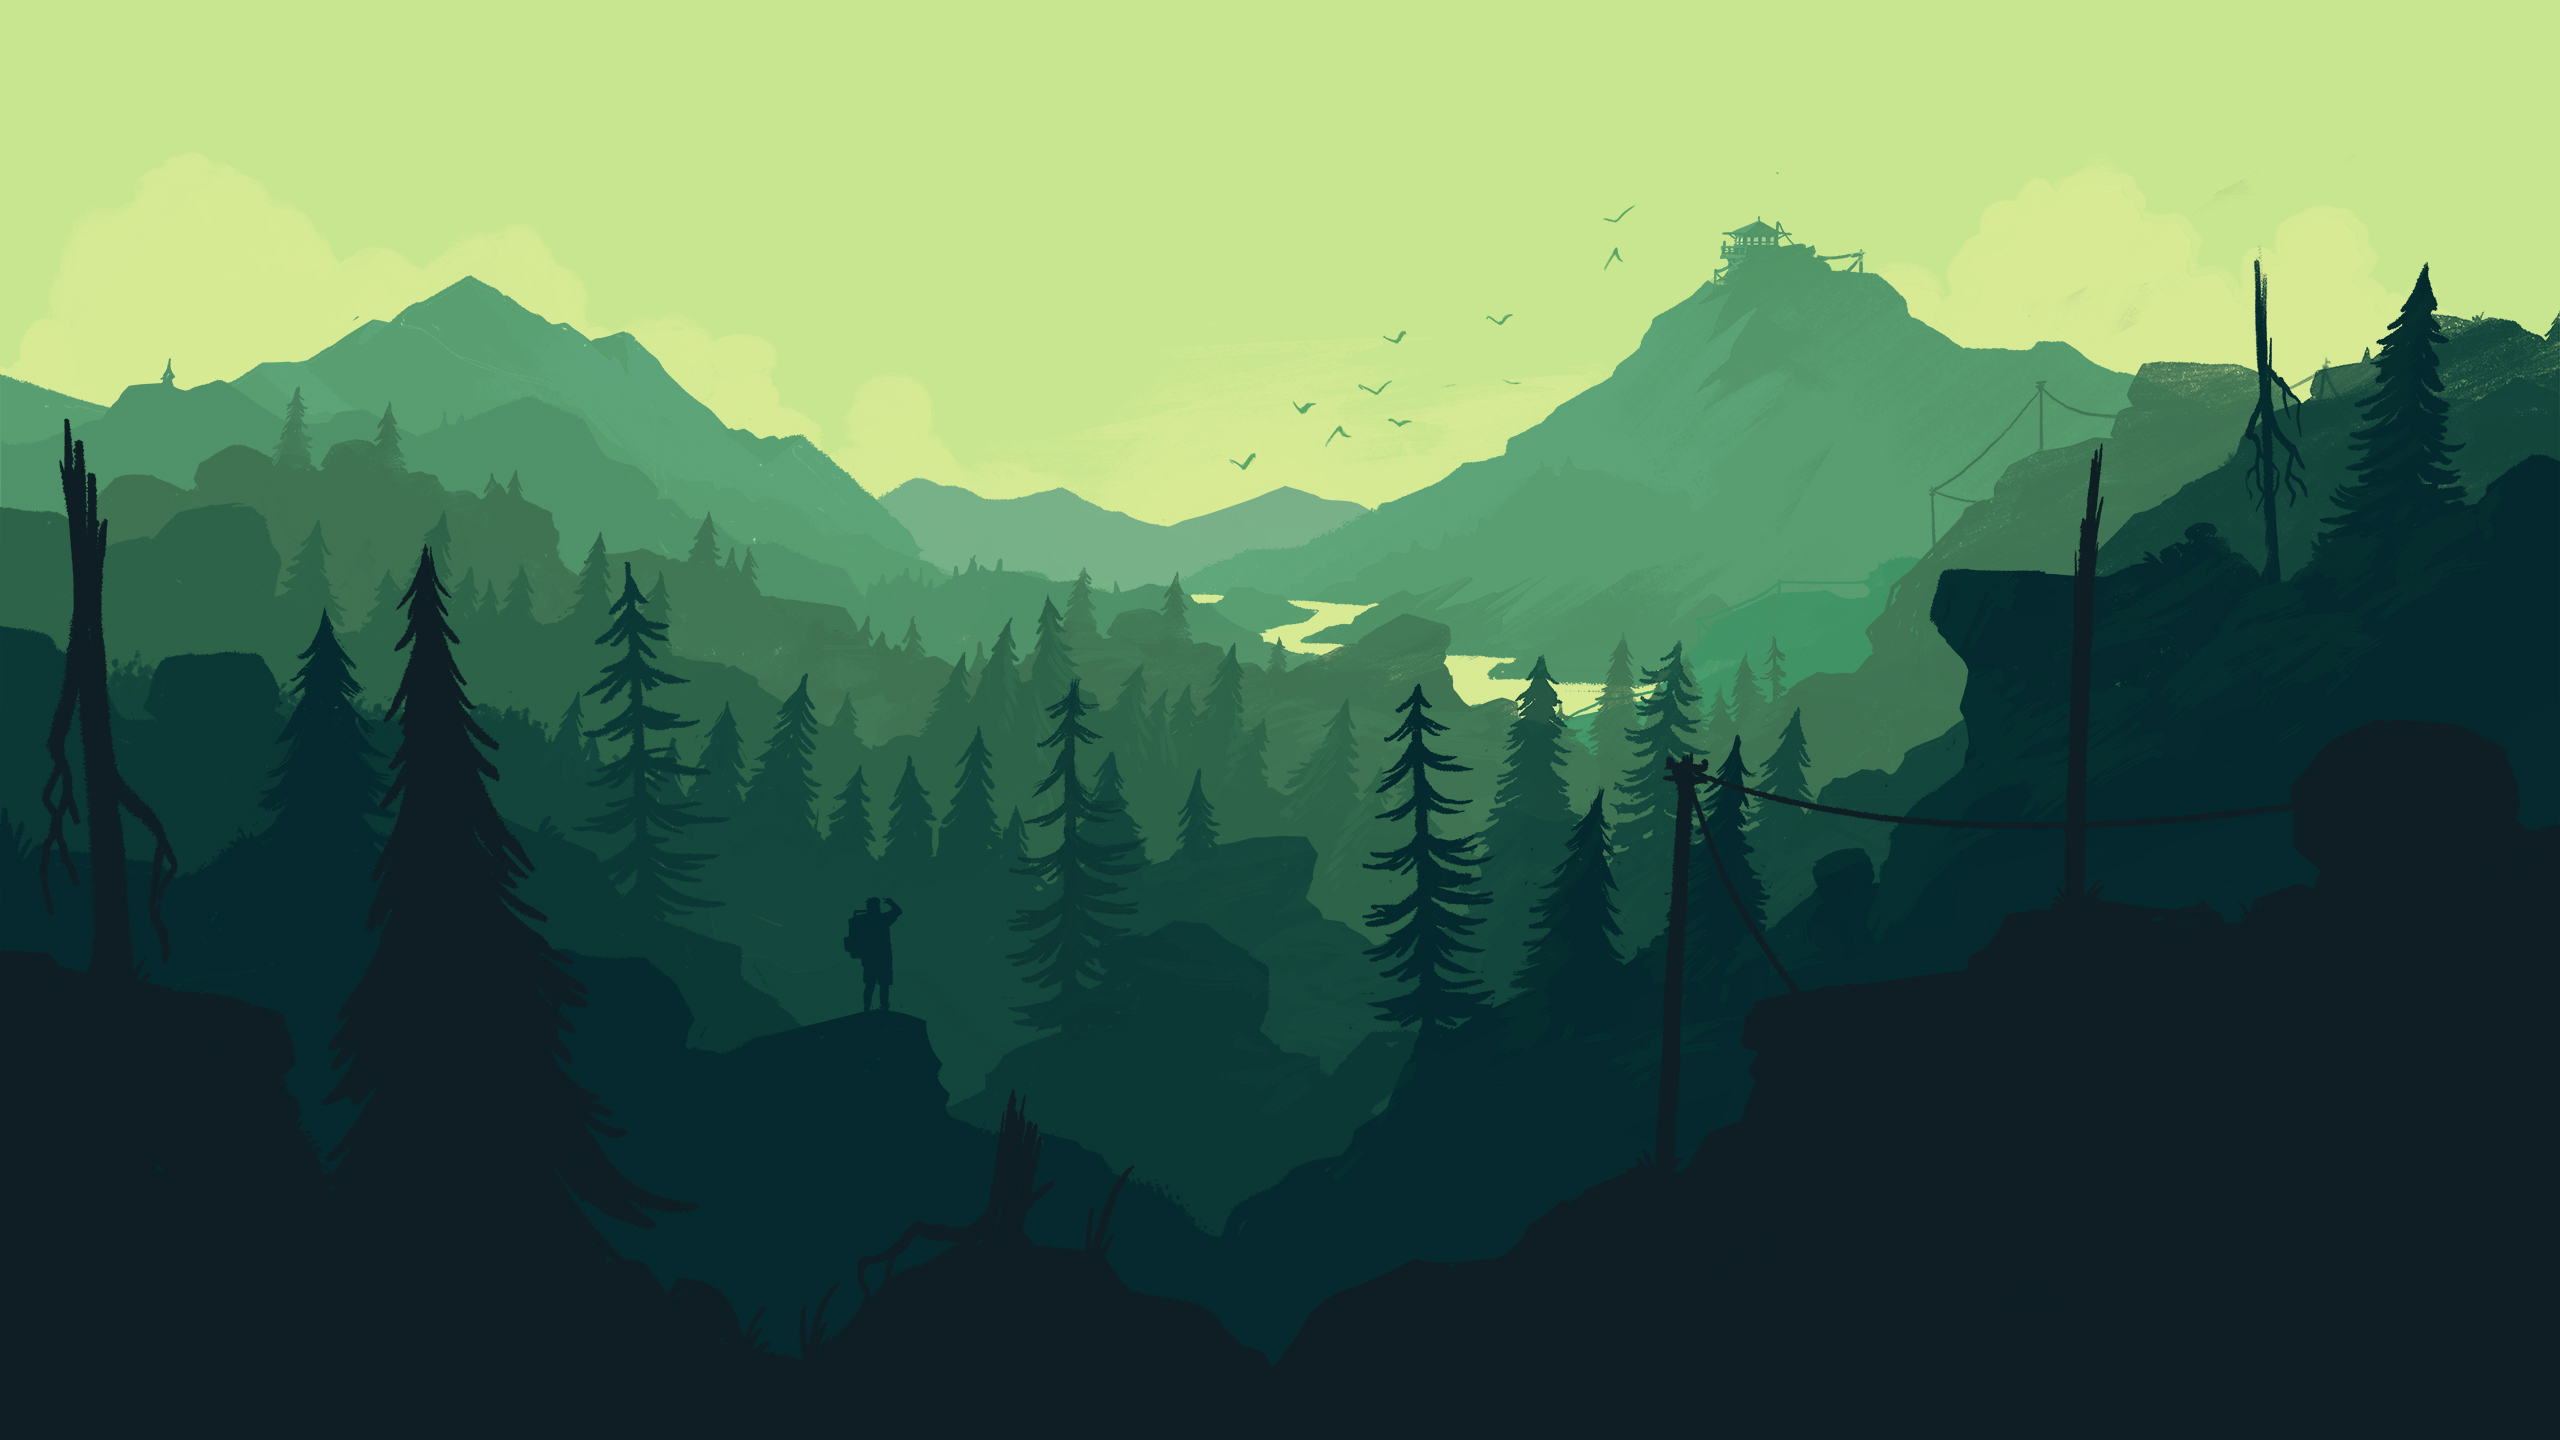
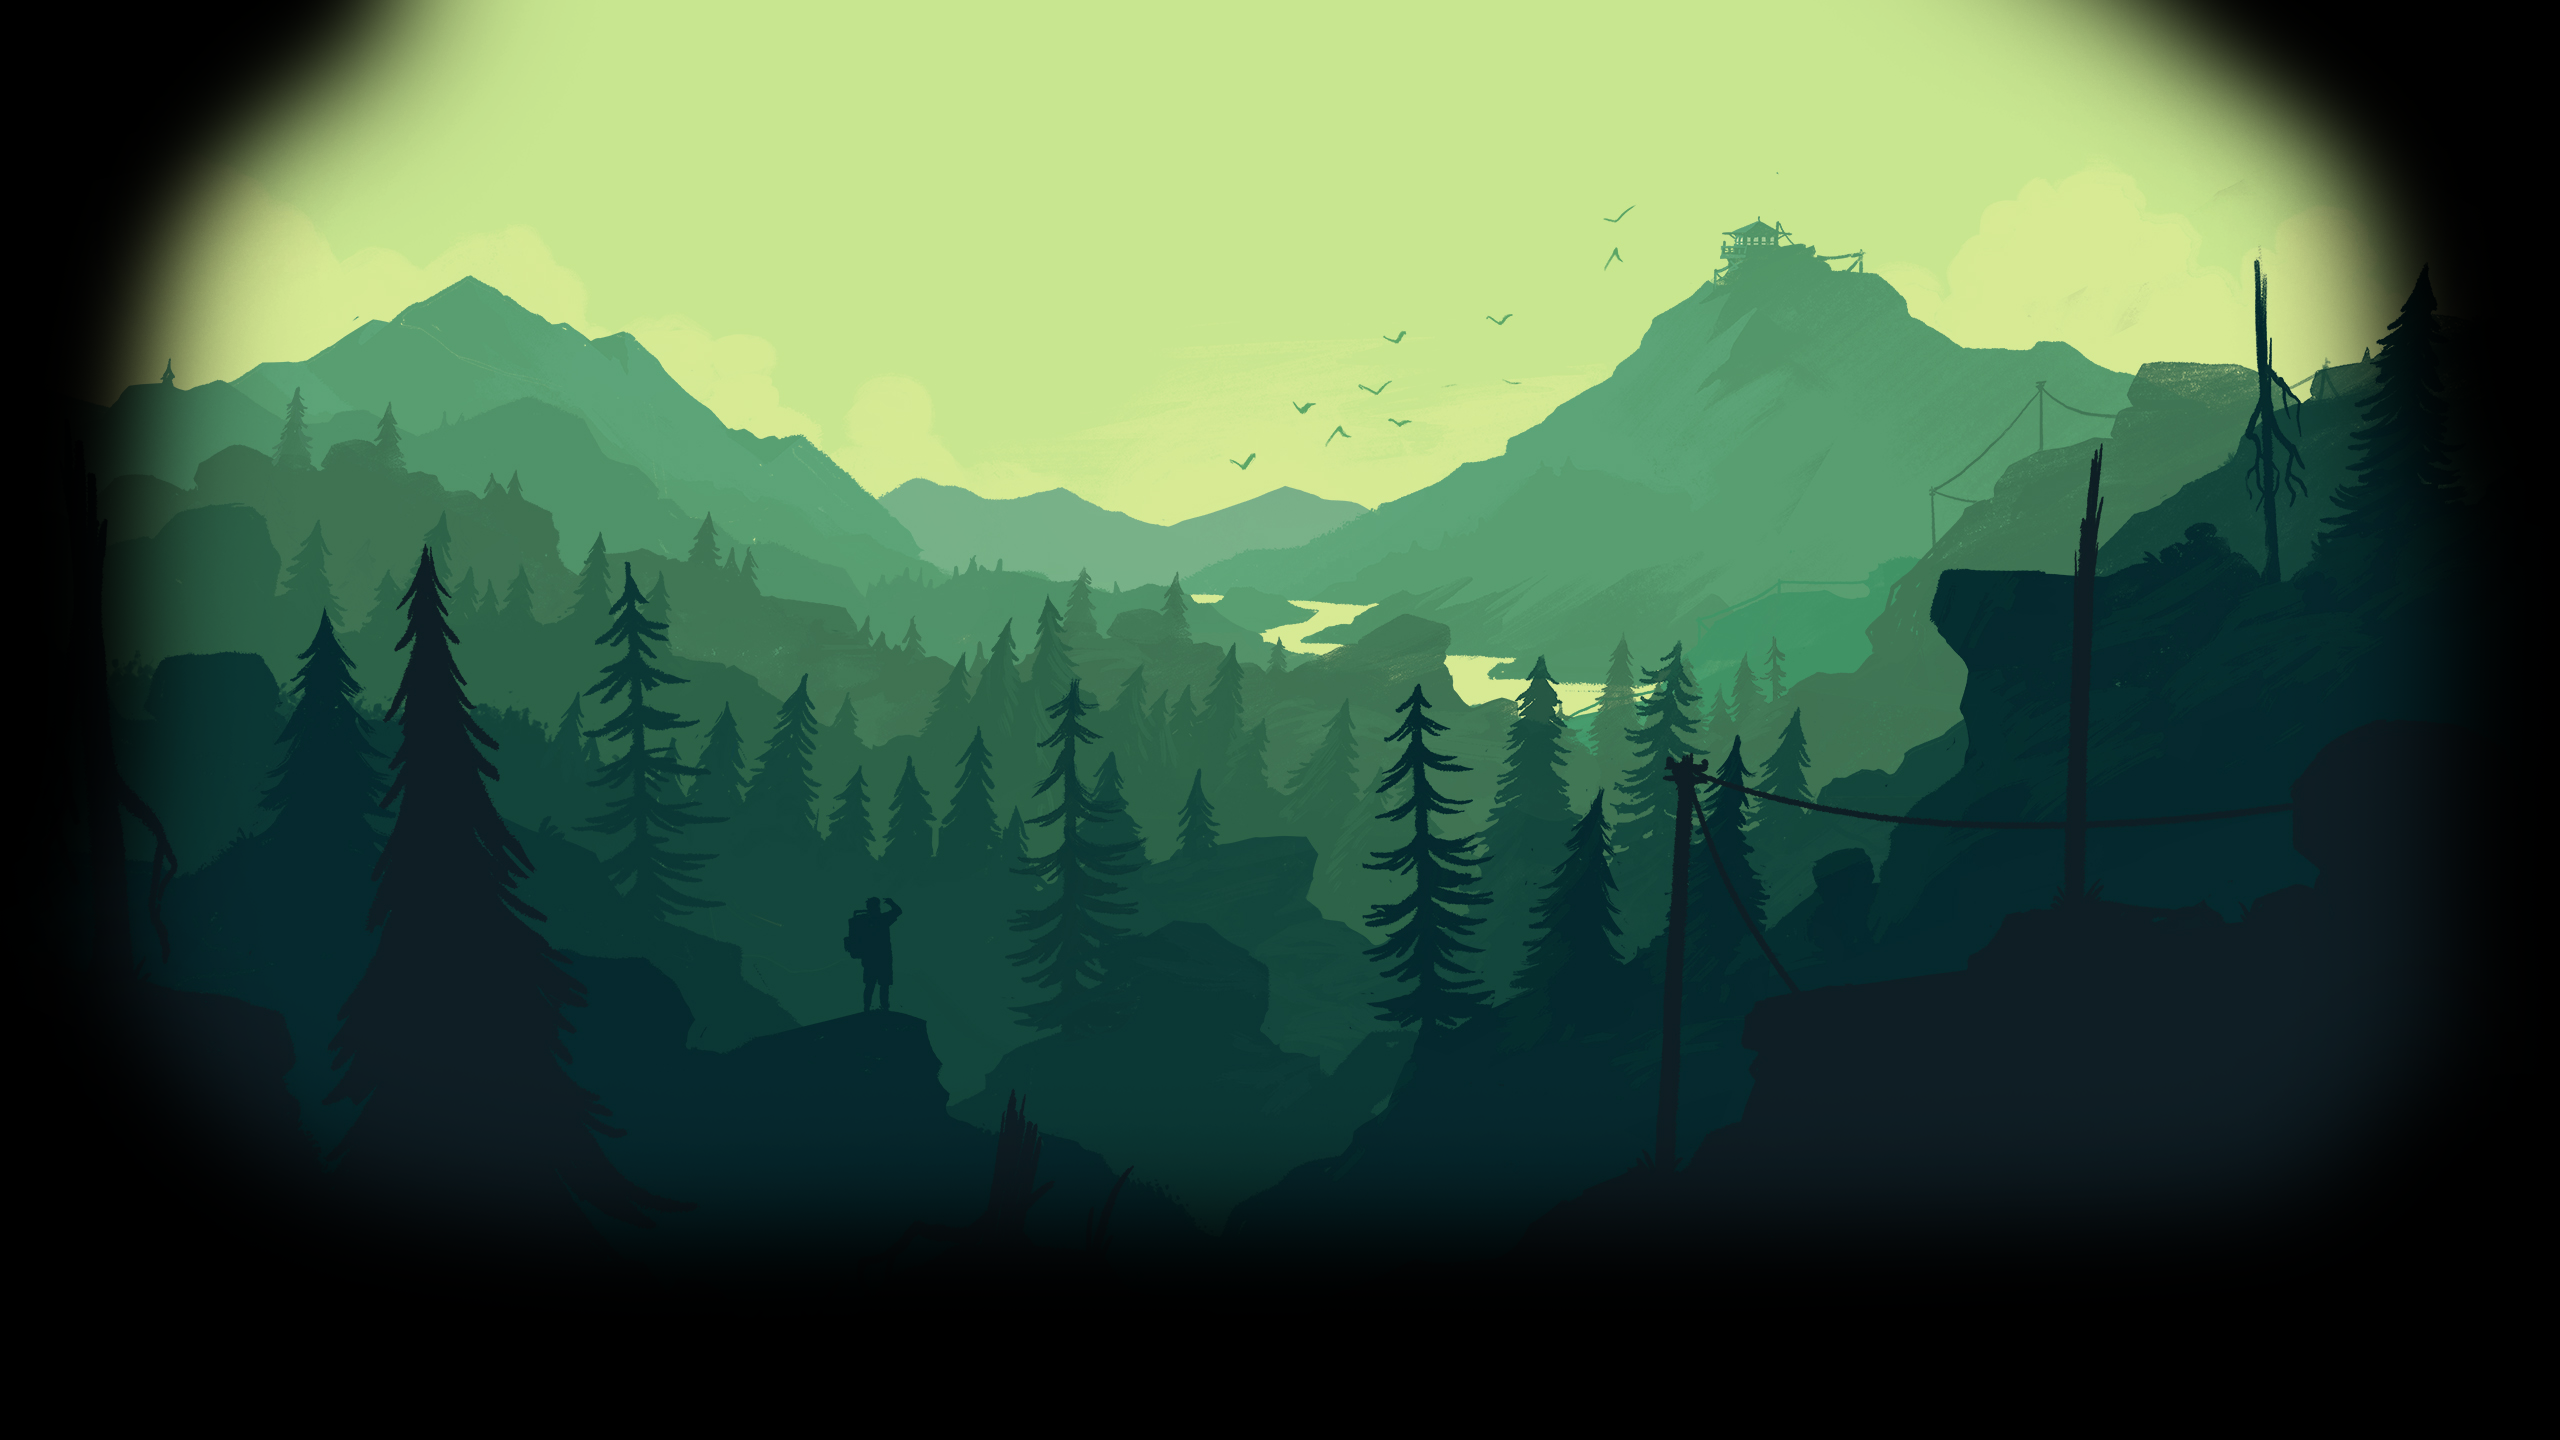
'14.09.2018'

Changed region(s): [[0.0, 0.0, 1.0, 1.0]]

diff --git a/HW#2.3.html b/HW#2.3.html
@@ -1,25 +1,34 @@
 <!DOCTYPE html>
 <html>
 <head>
-<title>HW 2 task 3</title>
+<title>Homework 2 Task 3</title>
 <meta charset="utf-8">
-<link  href="styles/styles.css" rel="stylesheet" type="text/css">
+<link  href="styles/styles3.css" rel="stylesheet" type="text/css">
 </head>
 <body>
 	<div id="h">
-		<img id="img1" url="#">
-		<img id="img2" url="#">
-		<h1>HEader</h1>
+		<div id="css"><img src="images/css.png" class="img"></div>
+		<div id="html2"><img src="images/html.png" class="img"></div>
+		<h1>Header</h1>
 	</div>
-
 	<div id="menu">
-		<div class="botton">Botton 1</div>
-		<div class="botton">Botton 2</div>
+		<ul>
+			<LI><a href="homework2.html">Task 1</a></LI>
+			<li><a href="homework2.2.html">Task 2</a></li>
+		</ul>	
 	</div>
-	
-	<div id="content"><p>Lorem Ipsum is simply dummy text of the printing and typesetting industry. Lorem Ipsum has been the industry's standard dummy text ever since the 1500s, when an unknown printer took a galley of type and scrambled it to make a type specimen book. It has survived not only five centuries, but also the leap into electronic typesetting, remaining essentially unchanged. It was popularised in the 1960s with the release of Letraset sheets containing Lorem Ipsum passages, and more recently with desktop publishing software like Aldus PageMaker including versions of Lorem Ipsum.orem Ipsum is simply dummy text of the printing and typesetting industry. Lorem Ipsum has been the industry's standard dummy text ever since the 1500s, when an unknown printer took a galley of type and scrambled it to make a type specimen book. It has survived not only five centuries, but also the leap into electronic typesetting, remaining essentially unchanged. It was popularised in the 1960s with the release of Letraset sheets containing Lorem Ipsum passages, and more recently with desktop publishing software like Aldus PageMaker including versions of Lorem Ipsum.orem Ipsum is simply dummy text of the printing and typesetting industry. Lorem Ipsum has been the industry's standard dummy text ever since the 1500s, when an unknown printer took a galley of type and scrambled it to make a type specimen book. It has survived not only five centuries, but also the leap into electronic typesetting, remaining essentially unchanged. It was popularised in the 1960s with the release of Letraset sheets containing Lorem Ipsum passages, and more recently with desktop publishing software like Aldus PageMaker including versions of Lorem Ipsum.orem Ipsum is simply dummy text of the printing and typesetting industry. Lorem Ipsum has been the industry's standard dummy text ever since the 1500s, when an unknown printer took a galley of type and scrambled it to make a type specimen book. It has survived not only five centuries, but also the leap into electronic typesetting, remaining essentially unchanged. It was popularised in the 1960s with the release of Letraset sheets containing Lorem Ipsum passages, and more recently with desktop publishing software like Aldus PageMaker including versions of Lorem Ipsum.</p>
+		<div id="content">
+		<h2>Content</h2>
+		<p>Lorem Ipsum is simply dummy text of the printing and typesetting industry. Lorem Ipsum has been the industry's standard dummy text ever since the 1500s, when an unknown printer took a galley of type and scrambled it to make a type specimen book. It has survived not only five centuries, but also the leap into electronic typesetting, remaining essentially unchanged. It was popularised in the 1960s with the release of Letraset sheets containing Lorem Ipsum passages, and more recently with desktop publishing software like Aldus PageMaker including versions of Lorem Ipsum.orem Ipsum is simply dummy text of the printing and typesetting industry. Lorem Ipsum has been the industry's standard dummy text ever since the 1500s, when an unknown printer took a galley of type and scrambled it to make a type specimen book. It has survived not only five centuries, but also the leap into electronic typesetting, remaining essentially unchanged. It was popularised in the 1960s with the release of Letraset sheets containing Lorem Ipsum passages, and more recently with desktop publishing software like Aldus PageMaker including versions of Lorem Ipsum.orem Ipsum is simply dummy text of the printing and typesetting industry. Lorem Ipsum has been the industry's standard dummy text ever since the 1500s, when an unknown printer took a galley of type and scrambled it to make a type specimen book. It has survived not only five centuries, but also the leap into electronic typesetting, remaining essentially unchanged. It was popularised in the 1960s with the release of Letraset sheets containing Lorem Ipsum passages, and more recently with desktop publishing software like Aldus PageMaker including versions of Lorem Ipsum.orem Ipsum is simply dummy text of the printing and typesetting industry. Lorem Ipsum has been the industry's standard dummy text ever since the 1500s, when an unknown printer took a galley of type and scrambled it to make a type specimen book. It has survived not only five centuries, but also the leap into electronic typesetting, remaining essentially unchanged. It was popularised in the 1960s with the release of Letraset sheets containing Lorem Ipsum passages, and more recently with desktop publishing software like Aldus PageMaker including versions of Lorem Ipsum.</p>
+		<ul>
+			<li>paragraph 1</li>
+			<li>paragraph 2</li>	
+			<li>paragraph 3</li>	
+			<li>paragraph 4</li>	
+			<li>paragraph 5</li>		
+		</ul>	
 	</div>
 	<div id="clr"></div>
-	<footer> &copy; Sheikin Valentin Ivanovich </footer>
+	<div id="footer"> &copy; Sheikin Valentin Ivanovich </div>
 </body>
 </html>

diff --git a/Styles/styles3.css b/Styles/styles3.css
@@ -1,0 +1,126 @@
+body {
+	margin: 0;
+	padding: 0;
+	width: 100%;
+	height: 100vh;
+	background: url(../images/img.png) black no-repeat center top fixed;
+}
+h1 {
+	margin: auto;
+	padding: 0;
+	font: bold;
+	font-family: Calibri;
+	font-size: 40px;
+	text-align: center;
+}
+div {
+	overflow: hidden;
+}
+#h {
+	margin: 0 auto;
+	width: 90%;
+	height: 15vh;
+	background-color: yellow;
+	text-align: center;
+	border-radius: 0 0 5px 5px;
+	background-color: rgba(255,255,255,0.5);
+}
+#h:hover {
+	background-color: rgba(255,255,255,1);
+}
+#menu {
+	margin: 1vh 0 0 5%;
+	width: 10%;
+	height: 40vh;
+	float: left;
+	overflow: hidden;
+}
+#menu  ul {
+	list-style: none;
+	margin: 0;
+	padding: 0;
+}
+#menu ul li a {
+	text-decoration: none;
+	color: black;
+	padding: 0;
+	height: 100px;
+	line-height: 100px;
+	margin: 30px auto;
+	display: block;
+	text-align: center;
+	border-radius: 5%;
+	background-color: rgba(255,255,255,0.4);
+	font-size: 20px;
+	font:bold;
+	font-family: Calibri;
+	box-shadow: 1px 1px 0px rgba(255,255,255,0.5);
+}
+#menu ul li a:hover {
+	background-color: rgba(0,0,0,1);
+	color: white;
+}
+#clr {
+	clear: both;
+}
+#content {
+	background-color: rgba(255,255,255,0.7);
+	margin: 1vh 0 0 1%;
+	border-radius: 5px;
+	width: 79%;
+	height: auto;
+	float: left;
+}
+#content h2 {
+	margin-left: 10px;
+	margin-top: 10px;
+	font-size: 20px;
+	font:bold;
+	font-family: Calibri;
+	border-bottom: dotted 1px black; 
+	margin-right: 10px;
+}
+#content p {
+	margin-left: 10px;
+	margin-top: 10px;
+	margin-right:  10px;
+	text-align: left;
+}
+#footer {
+	margin: 5vh 0 0 auto;
+  	position: fixed;
+  	left: 5%; 
+  	bottom: 0;
+  	height: 15%;
+  	width: 90%;
+  	text-align: center;
+  	border-radius: 5px 5px 0 0;
+  	background-color: rgba(146, 162, 254, 0.7);
+}
+#footer:hover {
+	background-color: rgba(146, 162, 254, 1);
+	color: white;
+}
+#css {
+    background-size: cover;
+    width: 20%;
+    height: 15vh;
+    float: left;
+    position: fixed;
+    right: 0px;
+    
+ }
+#html2 {
+    background-size: cover;
+    width: 20%;
+    height: 15vh;
+  	float: right;
+  	position: fixed;
+  	left: 0px;
+
+}
+.img {
+    height: 15vh;
+    width: auto;
+    max-width: 100%;
+}
